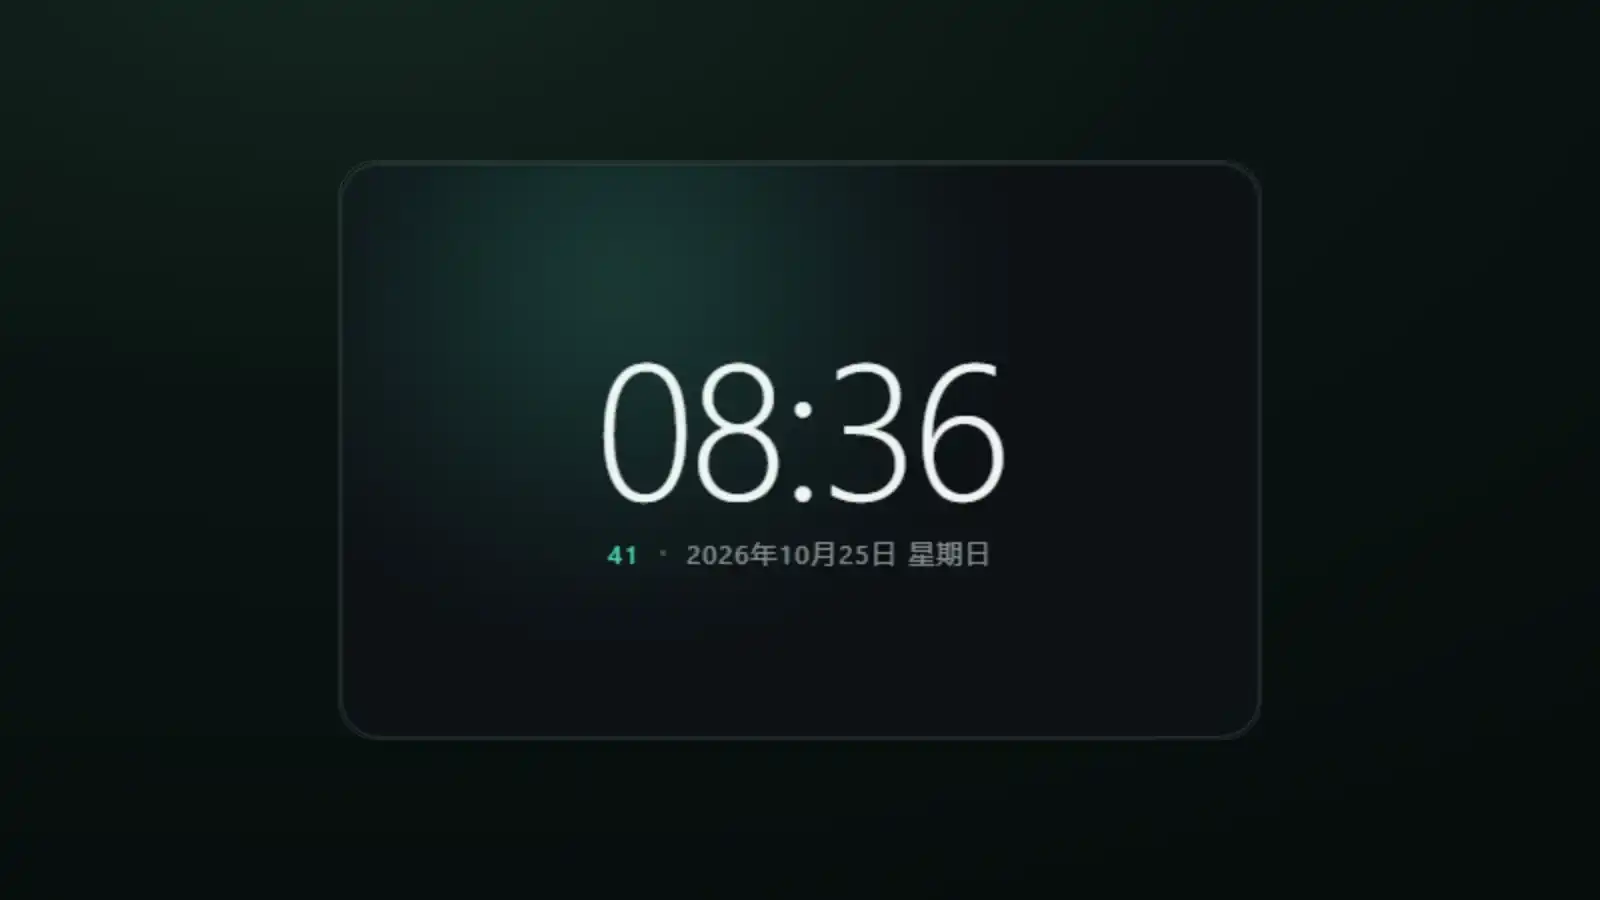
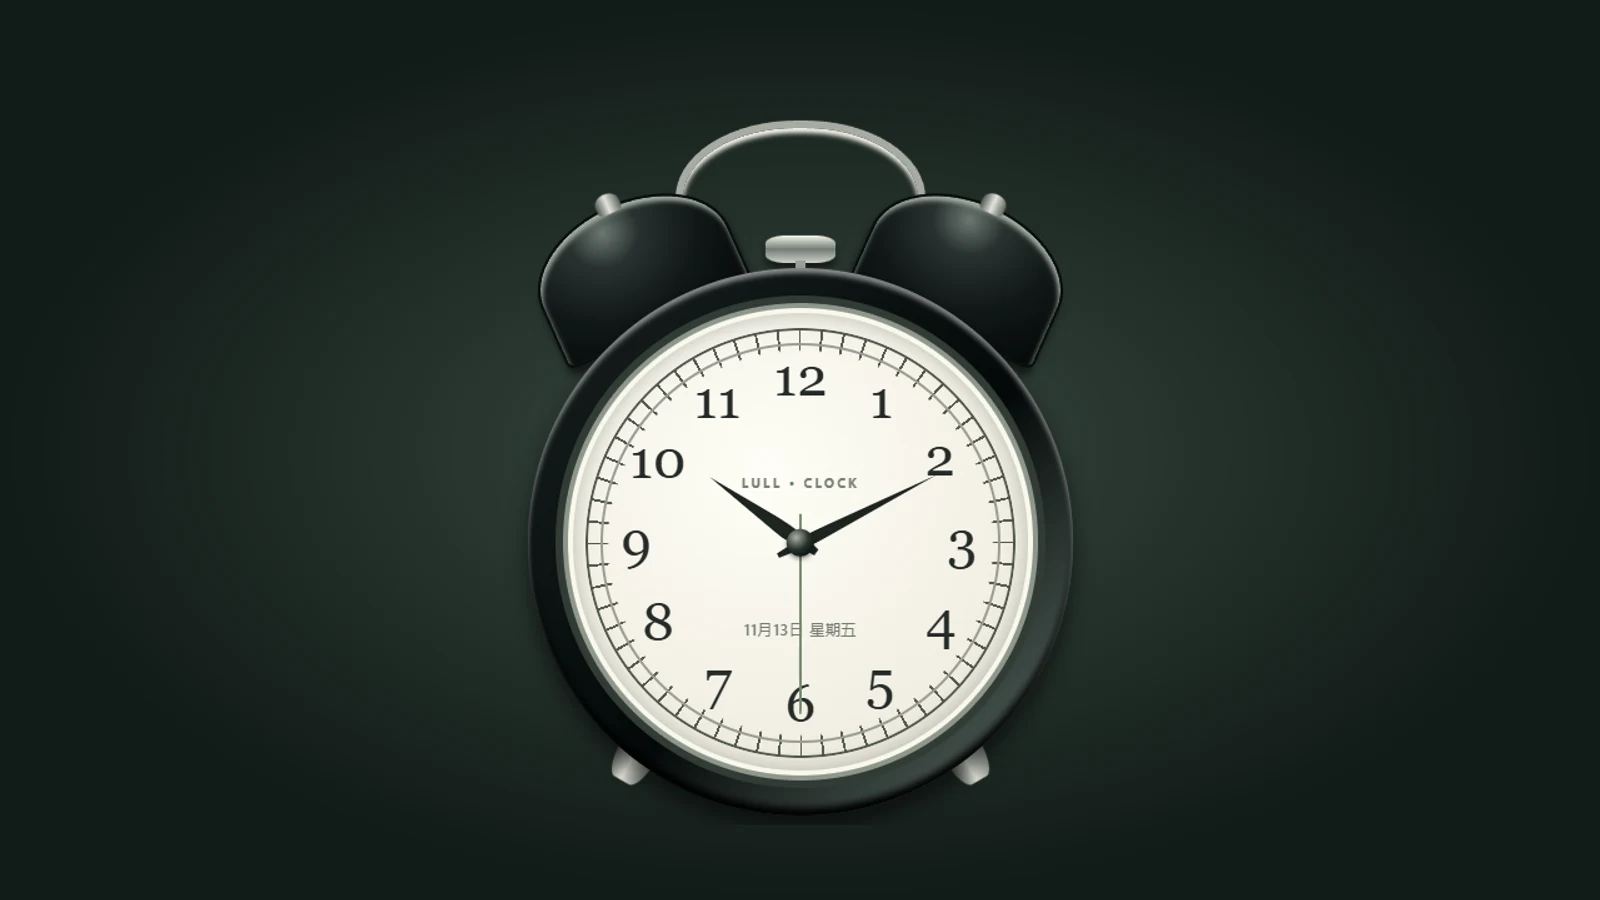
feat(minimal-clock): 更新为复古双铃指针时钟，重构实现
将极简文本时钟升级为复古双铃指针样式的时钟，使用纯 HTML/CSS 绘制所有元素，移除玻璃面板设计。更新版本至 1.1.0，修改描述与标签，添加 reduced motion 支持，调整时间更新逻辑，优化无障碍访问，更新预览图与相关配置文件。

Changed region(s): [[0.1562, 0.1244, 0.8438, 0.9022]]

diff --git a/content/widgets/minimal-clock/package/style.css b/content/widgets/minimal-clock/package/style.css
@@ -1,97 +1,62 @@
-/* 玻璃面板 + 大字时钟。面板半透明，放在浅色或深色桌面上都能看清。 */
-* { margin: 0; padding: 0; box-sizing: border-box; }
-
+/* A small, self-contained enamel alarm clock; dimensions follow the widget viewport. */
+* { box-sizing: border-box; }
 :root {
-  color-scheme: dark;
-  --panel: rgba(10, 16, 22, 0.62);
-  --edge: rgba(150, 220, 205, 0.16);
-  --ink: #eef6f4;
-  --muted: rgba(226, 240, 236, 0.56);
-  --accent: #48d6b2;
+  --case: #111819;
+  --ink: #252b28;
+  --paper: #f0ede2;
+  --accent: #657e6a;
+  --metal: #b5b8ae;
 }
-
-html,
-body {
-  width: 100%;
-  height: 100%;
-  background: transparent;
-  overflow: hidden;
-  font-family: "Segoe UI", "Microsoft YaHei", system-ui, sans-serif;
-  -webkit-font-smoothing: antialiased;
+html, body { width: 100%; height: 100%; margin: 0; overflow: hidden; background: transparent; }
+body { -webkit-font-smoothing: antialiased; }
+.clock { width: 100%; height: 100%; display: grid; place-items: center; overflow: hidden; }
+.alarm-clock { position: relative; width: min(74vw, 76vh); aspect-ratio: 1 / 1.18; }
+.handle {
+  position: absolute; z-index: 0; left: 28%; top: 1%; width: 44%; height: 24%;
+  border: max(3px, .018em) solid #a7aaa2; border-bottom: 0; border-radius: 48% 48% 0 0;
+  box-shadow: inset 0 2px 2px #f9f9ef, 0 2px 2px #303735;
 }
-
-.clock {
-  position: relative;
-  width: 100%;
-  height: 100%;
-  padding: 24px 28px;
-  display: flex;
-  flex-direction: column;
-  align-items: center;
-  justify-content: center;
-  gap: 12px;
-  text-align: center;
-  border-radius: 20px;
-  background: var(--panel);
-  border: 1px solid var(--edge);
-  box-shadow:
-    0 24px 60px -28px rgba(0, 0, 0, 0.65),
-    inset 0 1px 0 rgba(255, 255, 255, 0.06);
-  backdrop-filter: blur(18px) saturate(130%);
-  overflow: hidden;
+.bell { position: absolute; z-index: 1; top: 13%; width: 36%; height: 20%;
+  border: 1px solid #080d0d; border-radius: 100% 100% 12% 12%;
+  background: radial-gradient(ellipse at 42% 15%, #6c7772 0, #283230 22%, #101717 58%, #040808 100%);
+  box-shadow: inset 0 2px 2px #a7b0a6, 0 3px 3px #0008;
 }
-
-.glow {
-  position: absolute;
-  top: -40%;
-  left: -10%;
-  width: 80%;
-  height: 120%;
-  background: radial-gradient(closest-side, rgba(72, 214, 178, 0.22), transparent);
-  filter: blur(18px);
-  pointer-events: none;
-}
-
-.time {
-  position: relative;
-  font-size: clamp(56px, 22vw, 96px);
-  line-height: 0.94;
-  font-weight: 240;
-  letter-spacing: -0.03em;
-  color: var(--ink);
-  font-variant-numeric: tabular-nums;
-  font-feature-settings: "tnum" 1;
-}
-
-.meta {
-  position: relative;
-  display: flex;
-  align-items: center;
-  gap: 10px;
-  font-size: 13px;
-  letter-spacing: 0.08em;
-  color: var(--muted);
-  font-variant-numeric: tabular-nums;
-}
-
-#seconds {
-  color: var(--accent);
-  font-weight: 600;
-}
-
-.dot {
-  width: 3px;
-  height: 3px;
-  border-radius: 50%;
-  background: currentColor;
-  opacity: 0.5;
-}
-
-/* 秒数跳动的呼吸感：只动透明度，不触发重排 */
-#seconds {
-  transition: opacity 180ms ease-out;
-}
-
-#seconds.tick {
-  opacity: 0.45;
-}
+.bell::before { content: ""; position: absolute; width: 12%; height: 15%; left: 44%; top: -12%;
+  border-radius: 50% 50% 25% 25%; background: linear-gradient(90deg, #505954, #e2e3d9 48%, #5d655f); }
+.bell-left { left: 3%; transform: rotate(-24deg); }
+.bell-right { right: 3%; transform: rotate(24deg); }
+.hammer { position: absolute; z-index: 1; width: 12%; height: 4%; top: 18%; left: 44%; border-radius: 30%;
+  background: linear-gradient(#f2f3e8, #727c76 50%, #d1d3c9); box-shadow: 0 2px 3px #0009; }
+.hammer::after { content: ""; position: absolute; top: 90%; left: 41%; width: 18%; height: 190%; background: #9ba39b; }
+.leg { position: absolute; z-index: 0; bottom: 0; width: 7%; height: 17%;
+  background: linear-gradient(90deg, #545b56, #e3e4d9 45%, #777f78); border-radius: 0 0 30% 30%; }
+.leg-left { left: 20%; transform: rotate(30deg); } .leg-right { right: 20%; transform: rotate(-30deg); }
+.case { position: absolute; z-index: 2; left: 2%; top: 23%; width: 96%; aspect-ratio: 1; border-radius: 50%;
+  padding: 6.2%; background: linear-gradient(135deg, #67726c 0%, #121a19 15%, #030808 55%, #3e4a45 83%, #101817 100%);
+  box-shadow: 0 5px 8px #0008, inset 0 2px 2px #ffffff80, inset 0 -3px 3px #000; }
+.dial { position: relative; width: 100%; height: 100%; border-radius: 50%; overflow: hidden;
+  color: var(--ink); border: 2px solid #8e978b;
+  background: radial-gradient(circle at 42% 35%, #fffef7 0%, var(--paper) 69%, #d1d1c3 100%);
+  box-shadow: 0 0 0 3px #313b35, inset 0 0 0 2px #f9f8ed, inset 0 0 10px #555a4c88; }
+.minute-track, .hour-track { position: absolute; inset: 4%; border-radius: 50%; }
+.minute-track { border: 1px solid #50564c; background: repeating-conic-gradient(from -0.5deg, #555b50 0deg 0.65deg, transparent 0.65deg 6deg);
+  -webkit-mask: radial-gradient(circle closest-side, transparent 89%, #000 90%); mask: radial-gradient(circle closest-side, transparent 89%, #000 90%); }
+.hour-track { inset: 7%; border: 1px solid #9a9d8f; }
+.numbers { position: absolute; inset: 9%; }
+.numbers span { position: absolute; inset: 0; text-align: center; transform: rotate(calc(var(--n) * 30deg)); }
+.numbers b { display: inline-block; font-family: Georgia, 'Times New Roman', serif; font-size: clamp(13px, 7.2vh, 32px);
+  line-height: 1.05; font-weight: 400; transform: rotate(calc(var(--n) * -30deg)); }
+.dial-label { position: absolute; top: 36%; width: 100%; text-align: center; font: 600 clamp(5px, 1.5vh, 7px)/1 sans-serif;
+  letter-spacing: .22em; color: #7b8274; } .dial-label span { color: var(--accent); }
+.dial-date { position: absolute; top: 67%; width: 100%; text-align: center; color: #757c70;
+  font: 500 clamp(6px, 1.7vh, 8px)/1.2 'Segoe UI', 'Microsoft YaHei', sans-serif; letter-spacing: .05em; }
+.hand { position: absolute; z-index: 3; left: 50%; top: 50%; transform-origin: 50% 85%; border-radius: 100% 100% 15% 15%; }
+.hour-hand { width: 3.4%; height: 28%; margin-left: -1.7%; margin-top: -23.8%; background: #1d2420;
+  clip-path: polygon(50% 0, 100% 72%, 72% 100%, 28% 100%, 0 72%); }
+.minute-hand { width: 2.6%; height: 38%; margin-left: -1.3%; margin-top: -32.3%; background: #1d2420;
+  clip-path: polygon(50% 0, 100% 78%, 70% 100%, 30% 100%, 0 78%); }
+.second-hand { width: .8%; height: 43%; margin-left: -.4%; margin-top: -36.55%; background: #778b70; }
+.pin { position: absolute; z-index: 4; top: 50%; left: 50%; width: 6%; aspect-ratio: 1; border-radius: 50%;
+  transform: translate(-50%, -50%); background: radial-gradient(circle at 35% 30%, #a9b0a2, #26302b 48%, #101714 75%);
+  box-shadow: 0 1px 2px #0008; }
+.sr-only { position: absolute; width: 1px; height: 1px; padding: 0; margin: -1px; overflow: hidden; clip: rect(0, 0, 0, 0); white-space: nowrap; border: 0; }

diff --git a/content/widgets/minimal-clock/package/main.js b/content/widgets/minimal-clock/package/main.js
@@ -1,36 +1,23 @@
-/**
- * 极简时钟：不依赖 @lull/widget-sdk，不需要任何宿主能力。
- * 页面对着时间自己走；只在秒数变化时更新文本，避免每秒重排整块布局。
- */
-const WEEKDAYS = ["日", "一", "二", "三", "四", "五", "六"];
-
-const timeEl = document.getElementById("time");
-const secondsEl = document.getElementById("seconds");
+/** Local time, updated at the next second boundary without host permissions. */
+const weekdays = ["日", "一", "二", "三", "四", "五", "六"];
+const hourHand = document.getElementById("hour-hand");
+const minuteHand = document.getElementById("minute-hand");
+const secondHand = document.getElementById("second-hand");
 const dateEl = document.getElementById("date");
-
+const timeEl = document.getElementById("time");
 const pad = (value) => String(value).padStart(2, "0");
-
-let lastSecond = -1;
 
 function render() {
   const now = new Date();
-  if (now.getSeconds() === lastSecond) {
-    requestAnimationFrame(render);
-    return;
-  }
-  lastSecond = now.getSeconds();
-
-  timeEl.textContent = `${pad(now.getHours())}:${pad(now.getMinutes())}`;
-  secondsEl.textContent = pad(now.getSeconds());
-  dateEl.textContent =
-    `${now.getFullYear()}年${pad(now.getMonth() + 1)}月${pad(now.getDate())}日 ` +
-    `星期${WEEKDAYS[now.getDay()]}`;
-
-  // 秒数跳变时的轻微闪动，纯装饰
-  secondsEl.classList.add("tick");
-  setTimeout(() => secondsEl.classList.remove("tick"), 180);
-
-  requestAnimationFrame(render);
+  const seconds = now.getSeconds();
+  const minutes = now.getMinutes() + seconds / 60;
+  const hours = (now.getHours() % 12) + minutes / 60;
+  hourHand.style.transform = `rotate(${hours * 30}deg)`;
+  minuteHand.style.transform = `rotate(${minutes * 6}deg)`;
+  secondHand.style.transform = `rotate(${seconds * 6}deg)`;
+  dateEl.textContent = `${now.getMonth() + 1}月${now.getDate()}日 星期${weekdays[now.getDay()]}`;
+  timeEl.dateTime = now.toISOString();
+  timeEl.textContent = `${now.getFullYear()}年${now.getMonth() + 1}月${now.getDate()}日 星期${weekdays[now.getDay()]} ${pad(now.getHours())}:${pad(now.getMinutes())}:${pad(seconds)}`;
+  setTimeout(render, 1000 - now.getMilliseconds());
 }
-
 render();

diff --git a/content/widgets/minimal-clock/package/index.html b/content/widgets/minimal-clock/package/index.html
@@ -7,14 +7,36 @@
     <link rel="stylesheet" href="./style.css" />
   </head>
   <body>
-    <main class="clock">
-      <div class="glow" aria-hidden="true"></div>
-      <p class="time" id="time">--:--</p>
-      <p class="meta">
-        <span id="seconds">--</span>
-        <span class="dot" aria-hidden="true"></span>
-        <span id="date">----年--月--日 星期-</span>
-      </p>
+    <main class="clock" aria-label="传统指针时钟">
+      <div class="alarm-clock" aria-hidden="true">
+        <div class="handle"></div>
+        <div class="bell bell-left"></div>
+        <div class="bell bell-right"></div>
+        <div class="hammer"></div>
+        <div class="leg leg-left"></div>
+        <div class="leg leg-right"></div>
+        <div class="case">
+          <div class="dial">
+            <div class="minute-track"></div>
+            <div class="hour-track"></div>
+            <div class="numbers">
+              <span style="--n: 1"><b>1</b></span><span style="--n: 2"><b>2</b></span>
+              <span style="--n: 3"><b>3</b></span><span style="--n: 4"><b>4</b></span>
+              <span style="--n: 5"><b>5</b></span><span style="--n: 6"><b>6</b></span>
+              <span style="--n: 7"><b>7</b></span><span style="--n: 8"><b>8</b></span>
+              <span style="--n: 9"><b>9</b></span><span style="--n: 10"><b>10</b></span>
+              <span style="--n: 11"><b>11</b></span><span style="--n: 12"><b>12</b></span>
+            </div>
+            <div class="dial-label">LULL <span>•</span> CLOCK</div>
+            <div class="dial-date" id="date"></div>
+            <div class="hand hour-hand" id="hour-hand"></div>
+            <div class="hand minute-hand" id="minute-hand"></div>
+            <div class="hand second-hand" id="second-hand"></div>
+            <div class="pin"></div>
+          </div>
+        </div>
+      </div>
+      <time class="sr-only" id="time"></time>
     </main>
     <script src="./main.js" type="module"></script>
   </body>

diff --git a/content/widgets/minimal-clock/README.md b/content/widgets/minimal-clock/README.md
@@ -1,27 +1,20 @@
-# 极简时钟 · Minimal Clock
+# 极简时钟 · 复古指针版
 
-一台只有时间的大字时钟。玻璃面板半透明，放在浅色或深色桌面上都不突兀。
+一台由 HTML 和 CSS 绘制的传统双铃闹钟：黑色外壳、暖白表盘与指针显示本地时间，表盘下方显示日期和星期。透明窗口适合摆放在桌面上。
 
 ## 能力
 
-| 能力 | 是否需要 |
-| --- | --- |
-| `widget.ui` | 是（渲染界面） |
-| `widget.theme` / `widget.state` / `widget.audio` / `widget.network` / `widget.chrome` | 不需要 |
-
-这是最小权限的例子：一个只显示时间的工具，不需要持久化、不需要联网、不需要读写宿主状态。
-启用时宿主只会显示一条 `widget.ui`，用户不必判断「它要网络做什么」。
+只使用 `widget.ui` 渲染界面，不联网，也不读取或保存宿主状态。时钟从设备的本地时间更新，秒针每秒走动；屏幕阅读器可读取完整时间和日期。
 
 ## 实现
 
-- 使用 `requestAnimationFrame` 轮询，只在**秒数变化**时改写 DOM，其余帧直接返回。
-- 时间用 `font-variant-numeric: tabular-nums`，数字跳动时宽度不抖。
-- 面板背景是半透明 + `backdrop-filter`，`window.transparent = true`，窗口没有直角边。
-- 没有引入 `@lull/widget-sdk`：这个工具不需要与宿主通信，少一个依赖就少一处信任面。
+- 表壳、双铃、刻度和指针均使用 HTML 与 CSS 绘制，无外部素材或字体。
+- 通过定时器在每秒边界更新时间，不依赖宿主 SDK。
+- 窗口尺寸和透明背景沿用原组件设置。
 
 ## 安装
 
-下载 `.zip` → Lull **设置 → 扩展 → 从文件安装** → 扩展里点「启用」→「打开」。
+下载 `.zip` → Lull **设置 → 扩展 → 从文件安装** → 启用并打开。
 
 ## 许可
 
